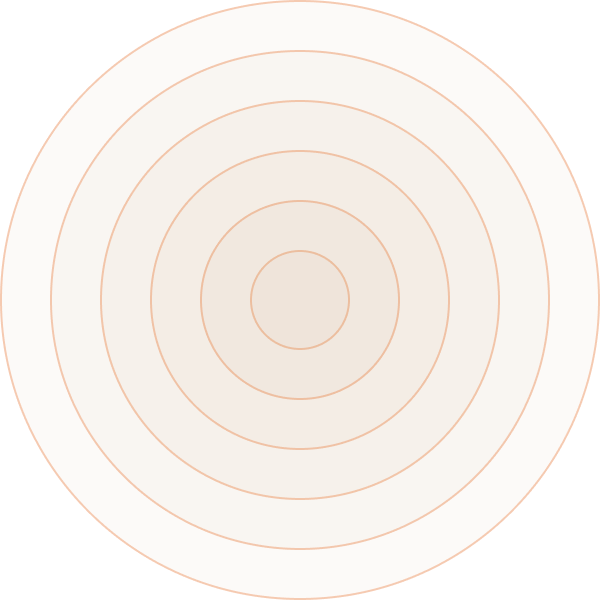
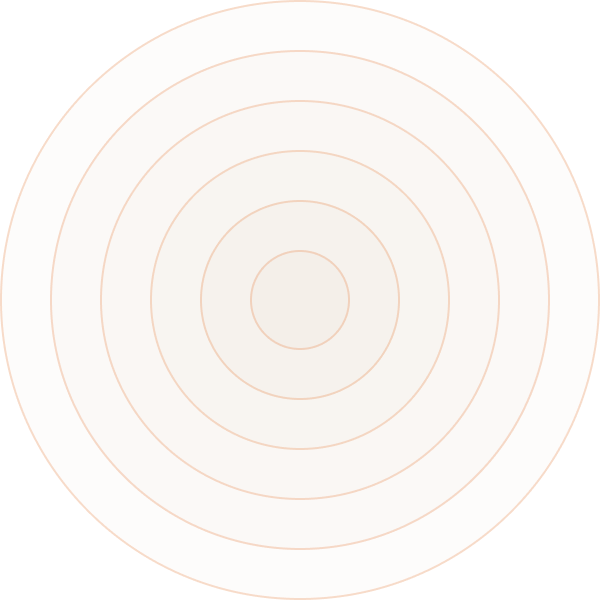
finish start sheets (nearly)

diff --git a/css/style.css b/css/style.css
@@ -105,7 +105,7 @@ hr {
     width: 161px;
     height: 48px;
     color:#F9F9F9;
-    background-color:#4C4D91;
+    background-color:#3D3E85;
     border-radius: 10px;
     border: none;
     font-size: 16px;
@@ -119,7 +119,7 @@ hr {
     width: 161px;
     height: 48px;
     color:#F9F9F9;
-    background-color:#4C4D91;
+    background-color:#3D3E85;
     border-radius: 10px;
     border: none;
     font-size: 16px;
@@ -140,24 +140,26 @@ hr {
 
 .container-title h1 {
     font-size: 90px;
-    color: #4C4D91;
+    color: #414288;
     font-weight: 500;
     margin-left: 35px;
-    margin-top: 15px;
+    margin-top: 60px;
+    line-height: 16px;
 }
 
 .title-description {
     margin-left: 178px;
     font-size: 36px;
-    color: #4C4D91;
+    color: #414288;
     width: 822px;
     margin-top: 19px;
+    line-height: 41px;
 }
 
 .container-continue {
     width: 508px;
     height: 224px;
-    background-color: #D66945;
+    background-color: #FF934B;
     border: none;
     border-radius: 30px;
     position: absolute;
@@ -186,7 +188,7 @@ hr {
 }
 
 .wrapper {
-    background-color: #FFF6ED;
+    background-color: #FFFFFF;
     width: 100%;
     height: 100%;
 }
@@ -291,11 +293,16 @@ hr {
 .authorization-container_email_input_field {
     width: 340px;
     height: 22px;
-    color: #A1ACBA;
+    color: #394561;
     border: none;
-    background-color: #FFF6ED;
+    background-color: #FFFFFF;
     font-size: 18px;
     margin-right: 186px;
+}
+
+.authorization-container_email_input_field:focus {
+    outline: none;
+    border: 1px solid transparent;
 }
 
 .authorization-container_email_input_faceicon {
@@ -323,17 +330,22 @@ hr {
 .authorization-container_password_input_field {
     width: 340px;
     height: 22px;
-    color: #A1ACBA;
+    color: #394561;
     border: none;
-    background-color: #FFF6ED;
+    background-color: #FFFFFF;
     font-size: 18px;
     margin-right: 186px;
+}
+
+.authorization-container_password_input_field:focus {
+    outline: none;
+    border: 1px solid transparent;
 }
 
 .authorization-container_enter {
     width: 161px;
     height: 48px;
-    background-color: #4E4F93;
+    background-color: #414288;
     border: none;
     border-radius: 10px;
     color: #F9F9F9;
@@ -364,6 +376,197 @@ hr {
     color: #326BDA;
     text-decoration: none;
     width: 192px;
+    font-size: 16px;
+    line-height: 24px;
+}
+
+.registration-container {
+    position: absolute;
+    width: 594px;
+    height: 834px;
+    top: 89px;
+    right: 116px;
+    display: flex;
+    flex-direction: column;
+    align-items: center;
+}
+
+.registration-container h2 {
+    color: #394561;
+    font-size: 34px;
+    font-weight: 500;
+    margin-bottom: 49px;
+}
+
+.registration-container_name-and-lastname {
+    display: flex;
+}
+
+.registration-container_name-and-lastname_lastname {
+    width: 304px;
+    height: 97px;
+}
+
+.registration-container h3 {
+    font-size: 21px;
+    color: #394561;
+    font-weight: 500;
+    height: 35px;
+    width: 213px;
+}
+
+.registration-container_name-and-lastname_lastname_input {
+    width: 304px;
+    height: 64px;
+    border: 1px solid #5A5885; 
+    padding-left: 20px;
+    font-size: 18px;
+}
+
+.registration-container_name-and-lastname_name {
+    width: 260px;
+    height: 97px;
+    margin-left: 30.12px;
+}
+
+.registration-container_name-and-lastname_name_input {
+    width: 260px;
+    height: 64px;
+    border: 1px solid #5A5885; 
+    font-size: 18px;
+    padding-left: 20px;
+}
+
+.registration-container_patronymic {
+    width: 594px;
+    height: 97px;
+    margin-top: 27px;
+}
+
+.registration-container_patronymic_input {
+    width: 594px;
+    height: 64px;
+    border: 1px solid #5A5885; 
+    font-size: 18px;
+    padding-left: 20px;
+}
+
+.registration-container_email {
+    width: 594px;
+    height: 97px;
+    margin-top: 27px;
+}
+
+.registration-container_email_input {
+    width: 594px;
+    height: 64px;
+    border: 1px solid #5A5885; 
+    font-size: 18px;
+    padding-left: 20px;
+}
+
+.registration-container_password {
+    width: 594px;
+    height: 97px;
+    margin-top: 27px;
+}
+
+.registration-container_password_input {
+    width: 594px;
+    height: 64px;
+    border: 1px solid #5A5885;
+    display: flex;
+}
+
+.registration-container_password_input_field {
+    border: none;
+    font-size: 18px;
+    line-height: 16px;
+    width: 212px;
+    height: 18px;
+    margin-left: 20px;
+    margin-top: 24px;
+}
+
+.registration-container_password_input_field:focus {
+    outline: none;
+    border: 1px solid transparent;
+}
+
+.registration-container_password_input_not-view {
+    cursor: pointer;
+    margin-left: 319px;
+    margin-top: 20px;
+    width: 24px;
+    height: 24px;
+}
+
+.registration-container_repeat-password {
+    width: 594px;
+    height: 97px;
+    margin-top: 27px;
+    margin-bottom: 46px;
+}
+
+.registration-container_repeat-password_input {
+    width: 594px;
+    height: 64px;
+    border: 1px solid #5A5885;
+    display: flex;
+}
+
+.registration-container_repeat-password_input_field {
+    border: none;
+    font-size: 18px;
+    line-height: 16px;
+    width: 212px;
+    height: 18px;
+    margin-left: 20px;
+    margin-top: 24px;
+}
+
+.registration-container_repeat-password_input_field:focus {
+    outline: none;
+    border: 1px solid transparent;
+}
+
+.registration-container_repeat-password_input_view {
+    cursor: pointer;
+    margin-left: 319px;
+    margin-top: 20px;
+    width: 24px;
+    height: 24px;
+}
+
+.registration-container_enter {
+    width: 161px;
+    height: 48px;
+    background-color: #414288;
+    border: none;
+    border-radius: 10px;
+    color: #F9F9F9;
+    font-size: 16px;
+}
+
+.registration-container_have-autorisation {
+    display: flex;
+    width: 305px;
+    height: 24px;
+    margin-top: 16px;
+    align-items: center;
+}
+
+.registration-container_have-autorisation_question {
+    color: #586885;
+    font-size: 16px;
+    line-height: 24px;
+    width: 260px;
+}
+
+.registration-container_have-autorisation_enter {
+    color: #326BDA;
+    text-decoration: none;
+    width: 58px;
     font-size: 16px;
     line-height: 24px;
 }

diff --git a/registration.html b/registration.html
@@ -1,0 +1,78 @@
+<!DOCTYPE html>
+<html lang="en">
+<head>
+    <meta charset="UTF-8">
+    <meta name="viewport" content="width=device-width, initial-scale=1.0">
+    <title>UrFuture</title>
+    <link rel="preconnect" href="https://fonts.googleapis.com">
+    <link rel="preconnect" href="https://fonts.gstatic.com" crossorigin>
+    <link href="https://fonts.googleapis.com/css2?family=Montserrat:ital,wght@0,100..900;1,100..900&display=swap" rel="stylesheet">
+    <link rel="stylesheet" href="css/style.css">
+</head>
+<body>
+    <div class="wrapper">
+        <div class="left-part">
+            <img src="images/polygon2.png" class = "polygon2">
+            <img src="images/rectangle2.png" class = "rectangle2">
+            <img src="images/ellipse22.png" class = "ellipse22">
+            <div class="container-title_authorization">
+                <img src="images/whitelogo.png" alt="Логотип UrFuture">
+                <h1>UrFuture</h1>
+            </div>
+            <div class="title-description_authorization">
+                ИНДИВИДУАЛЬНЫЕ ОБРАЗОВАТЕЛЬНЫЕ ТРАЕКТОРИИ ИРИТ-РТФ
+            </div>
+        </div>
+
+        <div class="registration-container">
+            <h2>Регистрация</h2>
+            <div class="registration-container_name-and-lastname">
+                <div class="registration-container_name-and-lastname_lastname">
+                    <h3>Фамилия*</h3>
+                    <input type="text" class="registration-container_name-and-lastname_lastname_input" placeholder="Введите фамилию">
+                </div>
+                <div class="registration-container_name-and-lastname_name">
+                    <h3>Имя*</h3>
+                    <input type="text" class="registration-container_name-and-lastname_name_input" placeholder="Введите имя">
+                </div>
+            </div>
+            <span class="registration-container_password_error-message" style="color: #C05640; font-size: 14px; font-weight: 500; display: noe;">Введите данные</span>
+            <div class="registration-container_patronymic">
+                <h3>Отчество*</h3>
+                    <input type="text" class="registration-container_patronymic_input" placeholder="Введите отчество">
+            </div>
+            <div class="registration-container_email">
+                <h3>Email*</h3>
+                <input type="text" class="registration-container_email_input" placeholder="Введите email">
+            </div>
+            <div class="registration-container_password">
+                <h3>Пароль*</h3>
+                <div class = "registration-container_password_input">
+                    <input type="text" class="registration-container_password_input_field" placeholder="Введите пароль">
+                    <img class="registration-container_password_input_view" style="display: none;" src="images/show-password.png" alt="Показать пароль">
+                    <img class="registration-container_password_input_not-view" src="images/hide-password.png" alt="Спрятать пароль">
+                </div>
+                <span class="registration-container_password_error-message" style="color: #C05640; font-weight: 500; display: none;">Пароли не совпадают</span>
+            </div>
+            <div class="registration-container_repeat-password">
+                <h3>Повторите пароль*</h3>
+                <div class = "registration-container_repeat-password_input">
+                    <input type="text" class="registration-container_repeat-password_input_field" placeholder="Введите пароль">
+                    <img class="registration-container_repeat-password_input_view" src="images/show-password.png" alt="Показать пароль">
+                    <img class="registration-container_repeat-password_input_not-view" style="display: none;" src="images/hide-password.png" alt="Спрятать пароль">
+                </div>
+                <span class="registration-container_repeat-password_error-message" style="color: #C05640; font-weight: 500; display: none;">Пароли не совпадают</span>
+            </div>
+            <a href="#">
+                <button class="registration-container_enter">
+                    Регистрация
+                </button>
+            </a>
+            <div class="registration-container_have-autorisation">
+                <div class = "registration-container_have-autorisation_question">У вас есть учетная запись?</div>
+                <a href = "#" class = "registration-container_have-autorisation_enter">Войти</a>
+            </div>
+        </div>
+    </div>
+</body>
+</html>

diff --git a/authorization.html b/authorization.html
@@ -39,6 +39,7 @@
                     <input type="text" class="authorization-container_password_input_field" placeholder="Введите пароль">
                     <img class="authorization-container_email_input_faceicon" src="images/faceicon.svg" alt="Иконка пользователя">
                 </div>
+                <span class="authorization-container_password_error-message" style="color: #C05640; font-weight: 500; display: none;">Неверно введен логин или пароль</span>
             </div>
             <a href="#" class="">
                 <button class="authorization-container_enter">
